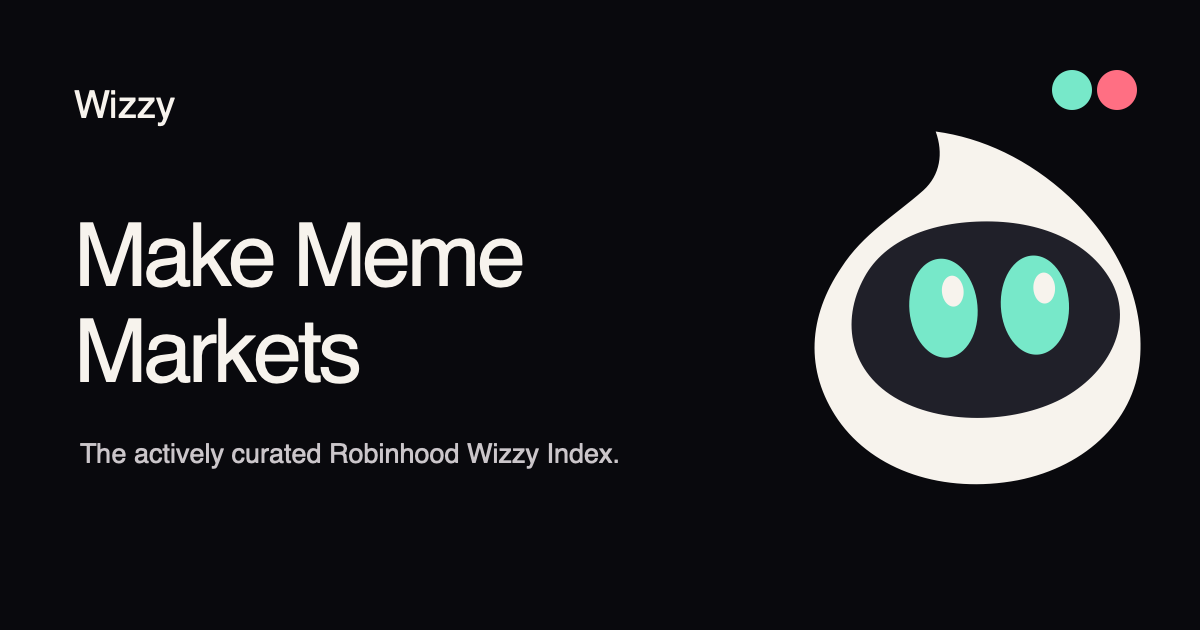
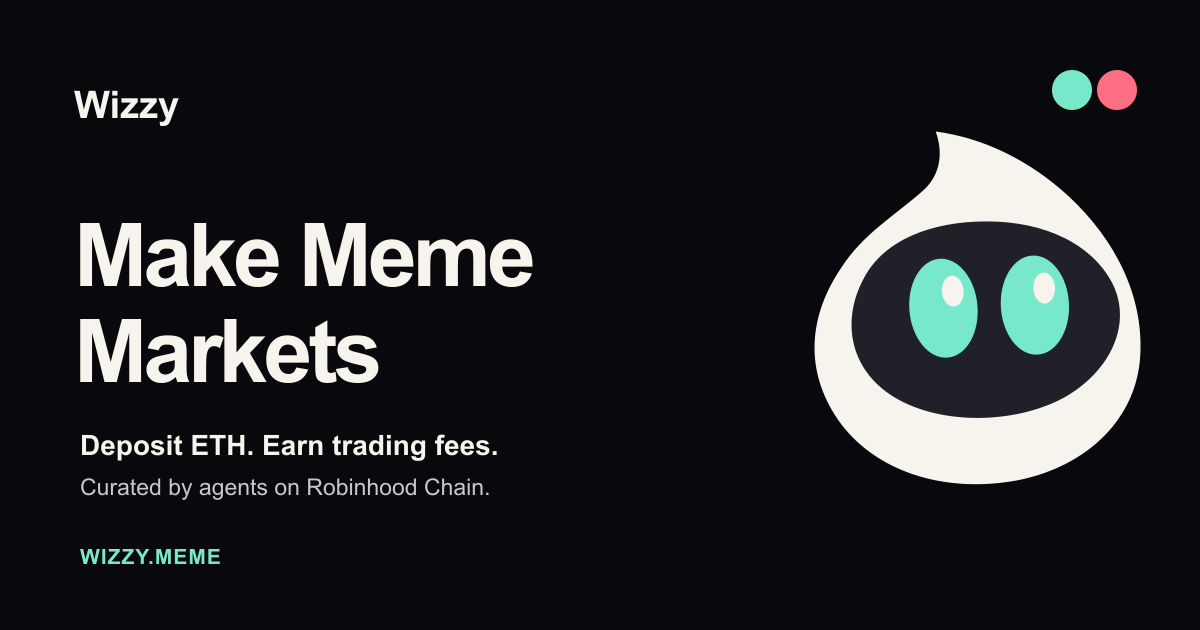
feat: optimize social previews

diff --git a/test/app-ui.test.ts b/test/app-ui.test.ts
@@ -7,6 +7,9 @@ const css = readFileSync("app/globals.css", "utf8");
 const layout = readFileSync("app/layout.tsx", "utf8");
 const providers = readFileSync("app/providers.tsx", "utf8");
 const mascot = readFileSync("public/brand/wizzy-mascot.svg", "utf8");
+const socialCard = readFileSync("app/opengraph-image.png");
+const openGraphAlt = readFileSync("app/opengraph-image.alt.txt", "utf8").trim();
+const twitterAlt = readFileSync("app/twitter-image.alt.txt", "utf8").trim();
 const nextConfig = readFileSync("next.config.ts", "utf8");
 
 describe("meme index product UI", () => {
@@ -135,13 +138,26 @@ describe("meme index product UI", () => {
   });
 
   it("ships the Wizzy identity and canonical domain without stale public Una assets", () => {
-    expect(layout).toContain('new URL("https://wizzy.meme")');
-    expect(layout).toContain('title: "Wizzy: Make Meme Markets"');
+    expect(layout).toContain('const siteUrl = "https://wizzy.meme"');
+    expect(layout).toContain('const socialTitle = "Wizzy: Make Meme Markets"');
     expect(layout).toContain('siteName: "Wizzy"');
     expect(portfolio).toContain('aria-label="Wizzy overview"');
     expect(portfolio).toContain('/brand/wizzy-mascot-dark.svg');
     expect(portfolio).not.toContain('/brand/una-mascot');
     expect(mascot).toContain("Wizzy mascot");
+  });
+
+  it("ships a complete large social-share contract", () => {
+    expect(layout).toContain('card: "summary_large_image"');
+    expect(layout).toContain('url: "/"');
+    expect(layout).toContain('locale: "en_GB"');
+    expect(layout).toContain('"max-image-preview": "large"');
+    expect(layout).toContain("earn trading fees, managed by agents on Robinhood Chain");
+    expect(socialCard.readUInt32BE(16)).toBe(1200);
+    expect(socialCard.readUInt32BE(20)).toBe(630);
+    expect(socialCard.byteLength).toBeLessThan(5 * 1024 * 1024);
+    expect(openGraphAlt).toMatch(/Wizzy mascot.+Make Meme Markets.+earn trading fees/);
+    expect(twitterAlt).toBe(openGraphAlt);
   });
 
   it("offers wallet-first login and provisions EVM and Solana wallets for every user", () => {

diff --git a/app/layout.tsx b/app/layout.tsx
@@ -21,21 +21,40 @@ const display = Unbounded({
   display: "swap",
 });
 
+const siteUrl = "https://wizzy.meme";
+const socialTitle = "Wizzy: Make Meme Markets";
+const socialDescription =
+  "Deposit ETH into a curated index of meme markets and earn trading fees, managed by agents on Robinhood Chain.";
+
 export const metadata: Metadata = {
-  metadataBase: new URL("https://wizzy.meme"),
+  metadataBase: new URL(siteUrl),
+  applicationName: "Wizzy",
   alternates: { canonical: "/" },
-  title: "Wizzy: Make Meme Markets",
-  description: "Deposit ETH into a curated index of meme markets and earn, updated and managed by agents on Robinhood Chain.",
+  title: socialTitle,
+  description: socialDescription,
+  authors: [{ name: "Wizzy", url: siteUrl }],
+  creator: "Wizzy",
+  publisher: "Wizzy",
+  category: "finance",
+  keywords: ["meme markets", "Robinhood Chain", "liquidity index", "DeFi", "Wizzy"],
+  formatDetection: { email: false, address: false, telephone: false },
+  robots: {
+    index: true,
+    follow: true,
+    googleBot: { index: true, follow: true, "max-image-preview": "large" },
+  },
   openGraph: {
-    title: "Wizzy: Make Meme Markets",
-    description: "The actively curated Robinhood Wizzy Index.",
+    title: socialTitle,
+    description: socialDescription,
+    url: "/",
     siteName: "Wizzy",
+    locale: "en_GB",
     type: "website",
   },
   twitter: {
     card: "summary_large_image",
-    title: "Wizzy: Make Meme Markets",
-    description: "The actively curated Robinhood Wizzy Index.",
+    title: socialTitle,
+    description: socialDescription,
   },
 };
 

diff --git a/app/robots.ts b/app/robots.ts
@@ -1,0 +1,9 @@
+import type { MetadataRoute } from "next";
+
+export default function robots(): MetadataRoute.Robots {
+  return {
+    rules: { userAgent: "*", allow: "/" },
+    sitemap: "https://wizzy.meme/sitemap.xml",
+    host: "https://wizzy.meme",
+  };
+}

diff --git a/app/sitemap.ts b/app/sitemap.ts
@@ -1,0 +1,11 @@
+import type { MetadataRoute } from "next";
+
+export default function sitemap(): MetadataRoute.Sitemap {
+  return [
+    {
+      url: "https://wizzy.meme",
+      changeFrequency: "daily",
+      priority: 1,
+    },
+  ];
+}
